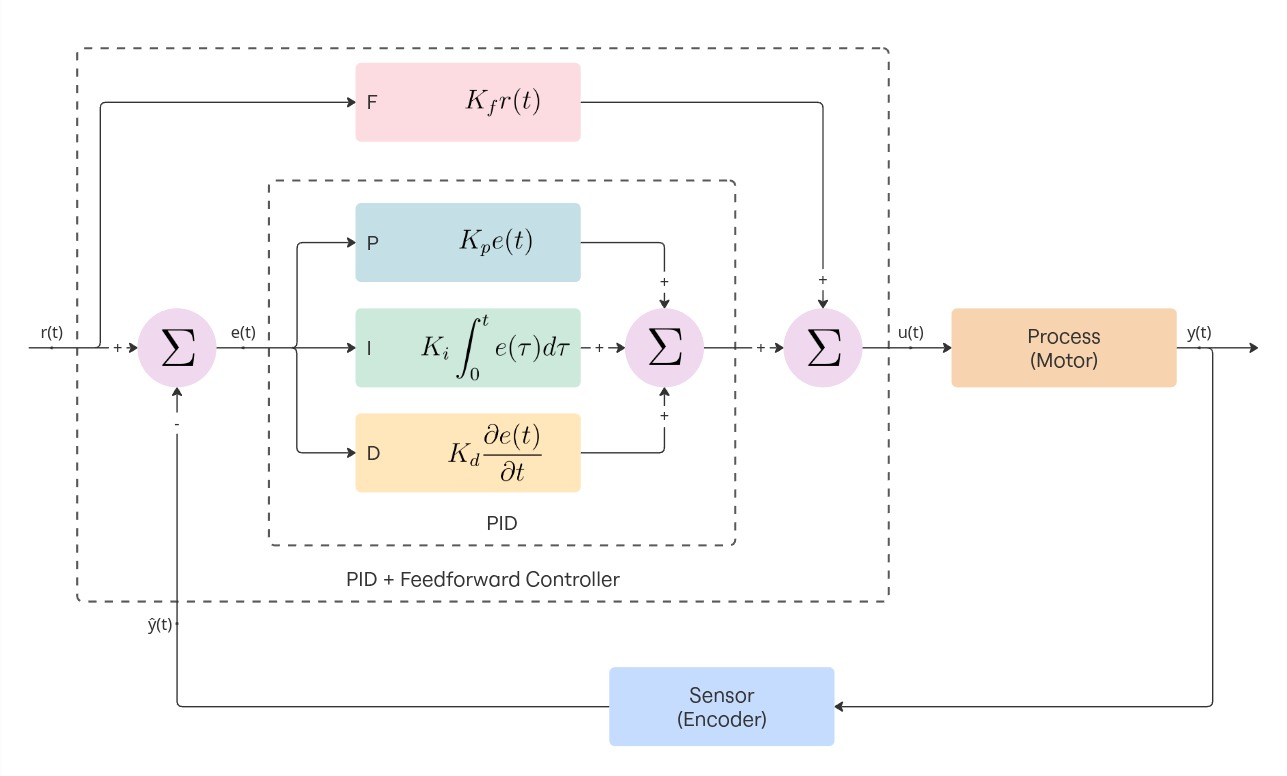
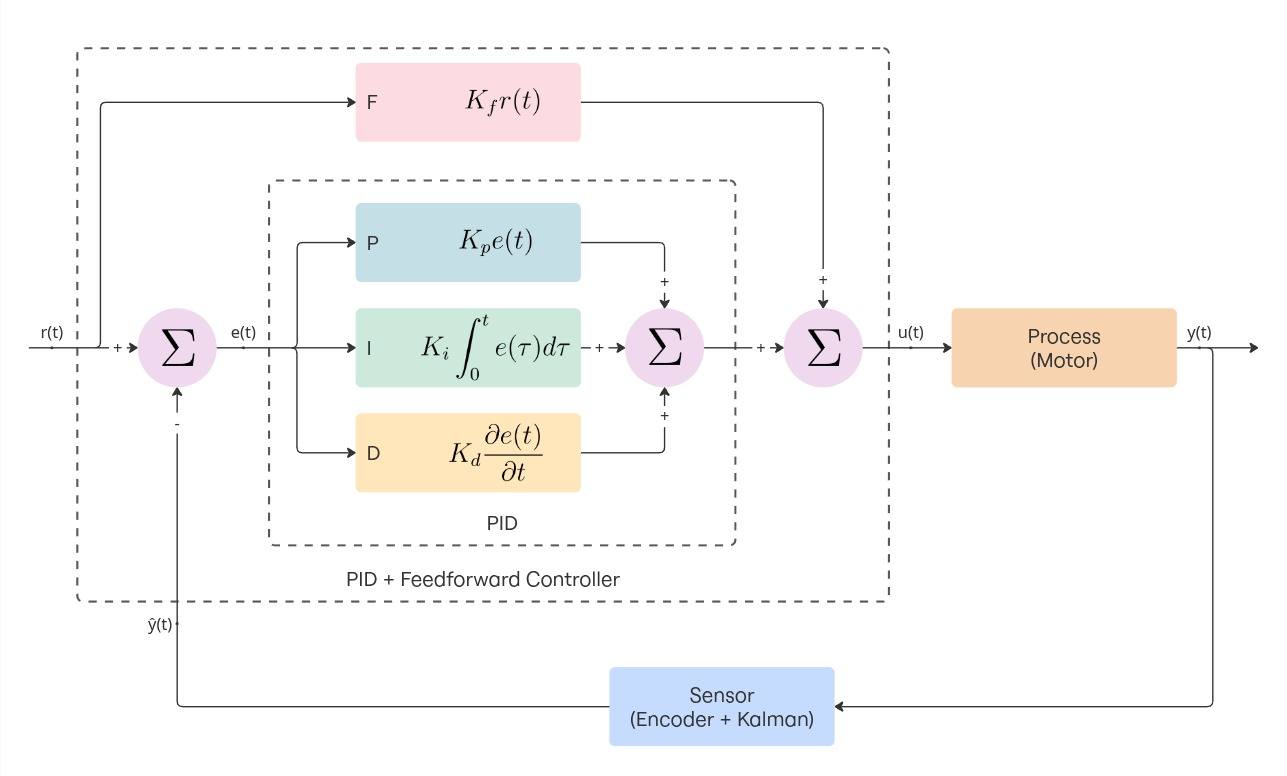
Updated software section

diff --git a/projects/differential_drive/index.html b/projects/differential_drive/index.html
@@ -165,8 +165,7 @@
             An Arduino Nano handles the low level stuff (controlling the motors, reading encoders and sensors, ...).
           </li>
           <li>
-            A Raspberry Pi Zero 2 orchestrates everything. It receives messages from other ROS nodes and commands the
-            Arduino to do something.
+            A Raspberry Pi Zero 2 receives messages from other ROS nodes and commands the Arduino to do something.
           </li>
           <li>
             The DRV8833 is an h-bridge. An h-bridge allows a DC motor to be driven in both forward and reverse
@@ -224,7 +223,7 @@
             and the outer insulation film and to replace the connector and the switch.
           </li>
           <li>
-            The battery, a 2P 500mAh Lipo. These kind of batteries are usually found in RC planes and cars.
+            The battery, a 2S 500mAh Lipo. These kind of batteries are usually found in RC planes and cars.
           </li>
         </ul>
 
@@ -420,7 +419,12 @@
           <p class="image-caption">Inner control loop</p>
         </div>
 
-        <h2 id="software">TODO [Software]</h2>
+        <h2 id="software">Software</h2>
+
+          <p>
+            The Arduino receives commands through UART from the Raspberry, parses them and controls the hardware accordingly.
+            This is the code that handles that part:
+          </p>
 
         <pre><code class="language-cpp">
 // Read linear and angular velocities from UART (format: "linear,angular\n")
@@ -434,6 +438,201 @@ if (Serial.available()) {
     }
 }
         </code></pre>
+
+        <p>
+          The rest of the firmware is structured around a few key components. All are designed to be modular and reusable:
+        </p>
+
+        <ul>
+
+          <li>
+            The <strong>encoder</strong> library provides support for different kinds of encoders:
+            high-resolution (e.g. on motor shaft, before reduction) and low-resolution (e.g. on gearbox output shaft, afer reduction).
+            I'll talk a bit more on this in the following section.
+          </li>
+
+          <li>
+            The <strong>motor</strong> library controls the DRV8833 H-bridge. It exposes methods to coast, brake, and drive the motor 
+            at a given normalized speed (float in range -1 to 1). PWM signals allow speed control.
+
+            <pre><code class="language-cpp">
+const uint8_t motorInA = 5;  // Should be PWM capable
+const uint8_t motorInB = 6;  // Should be PWM capable
+const uint8_t motorEanble = 4;
+
+Motor motor(motorInA, motorInB, motorEnable);
+motor.enable();
+motor.drive(0.8f);
+            </code></pre>
+          </li>
+
+          <li>
+            The <strong>PID</strong> library provides the implementation for a PID controller. 
+            <pre><code class="language-cpp">
+const float kp = 0.1;
+const float ki = 0.1;
+const float kd = 0.1;
+
+PID pid(kp, ki, kd);
+
+// ...
+
+while (condition) {
+
+  // Compute dt in seconds 
+  unsigned long now = millis();
+  if (now - lastTime < dtMillis) return;
+  float dt = (now - lastTime) / 1000.0f; // seconds
+  lastTime = now;
+
+  float actual = sensor.read();
+  float control = pid.update(target, actual, dt);
+  // Apply the control
+}
+            </code></pre>
+          </li>
+
+          <li>
+            The <strong>Kalman</strong> library provides the implementation for a 1D Kalman filter.
+            <pre><code class="language-cpp">
+KalmanFilter filter(0.1f, 1.0f, 25.0f);
+//                   ^      ^     ^
+//                   |      |     Initial error covariance (allow more initial uncertainty)
+//                   |      Measurement noise (fast motor = more measurement variance)
+//                   Process noise (prevent covariance collapse)
+
+// ...
+
+while (condition) {
+
+  float reading = sensor.read();
+  float filtered = filter.update(reading);
+  // ...
+}
+            </code></pre>
+          </li>
+
+          <li>
+            A <strong>DriveUnit</strong> object represents an actuated wheel. It bundles a motor, encoder, PID controller and Kalman filter.
+            During each control cycle, it:
+            <ol>
+              <li>Measures the current wheel RPM using the encoder</li>
+              <li>Filters the measurement through the 1D Kalman filter</li>
+              <li>Computes the control signal via PID regulation</li>
+              <li>Sends the resulting command to the motor driver</li>
+            </ol>
+            This allows each wheel to be independently stabilized to its desired speed.
+            <pre><code class="language-cpp">
+const uint8_t encoderInA = 2;
+const uint8_t motorInA = 5;
+const uint8_t motorInB = 6;
+const float ticksPerRev = 894.0f;  // Depends on the motor
+const float maxSpeedRPM = 60.0f;   // Depends on the motor
+
+Encoder encoder(encoderInA);
+Motor motor(motorInA, motorInB, motorEnable);
+DriveUnit driveUnit(motor, encoder, ticksPerRev, maxSpeedRPM);
+
+// Configure the driveUnit e.g. set PID gains, set Kalman gains, ...
+
+driveUnit.setTargetAngularVelocity(40);  // Or setTargetRPM
+
+// ...
+while (condition) {
+  driveUnit.update();
+}
+            </code></pre>
+          </li>
+
+        </ul>
+
+        <h3>Encoder Implementation</h3>
+
+        <p>
+        Encoder pulses can occur at high frequency, especially for high-resolution encoders mounted on the motor shaft. Polling them in the main loop would lead to missed ticks. Each encoder should be updated inside an interrupt service routine (ISR) that triggers on encoder signal rising edge.
+        </p>
+
+        <p>The standard pattern for creating and updating an encoder looks like this:</p>
+        <pre><code class="language-cpp">
+Encoder encoder(pin);
+
+void encoderISR() {
+  encoder.update();  // increase number of ticks
+}
+
+attachInterrupt(digitalPinToInterrupt(pin), encoderISR, RISING);
+        </code></pre>
+
+        <p>
+        However, this approach requires manually declaring the ISR function and attaching it to the pin every time an encoder is created. To make the encoder setup more user-friendly and reduce the amount of code one should write, I used a static interrupt pattern. This means a predefined number of encoder instances are created and each one has a dedicated static ISR that references the correct encoder object.
+        </p>
+
+        <p>
+        This is how instantiation looks with the static ISR pattern:
+        </p>
+       <pre><code class="language-cpp">
+Encoder encoder(pin);
+        </code></pre>
+
+        <p>
+        This design allows to instantiate an encoder once and forget about ISR setup (handled automatically). Interrupt management is isolated inside the Encoder class.
+        </p>
+
+        <p>
+        The trade-off is that some configuration must be hardcoded at compile time (the number of supported encoders).
+        </p>
+
+        <p>
+        The Arduino Nano only has 2 interrupt capable pins, so it was unnecessary to support more encoders via software. If you want to support more encoders, you can change this part of the code:
+        </p>
+        <pre><code class="language-cpp">
+// encoder.hpp
+static Encoder* _instances[2]; // support 2 encoders
+
+// encoder.cpp
+Encoder* Encoder::_instances[2] = {nullptr, nullptr};
+        </code></pre> 
+
+        <p>
+          Another aspect worth mentioning is the fact that each encoder has two modes: Count Mode and Period Mode.
+        </p>
+
+        <ul>
+          <li>
+            <strong>Count Mode</strong> is designed for high-resolution encoders mounted directly on the motor shaft. In this case the time between
+            two subsequent pulses is very short and we must measure the speed by counting the number of ticks over a fixed
+            time window. The RPM is computed as:
+            <pre><code class="language-cpp">
+float computeCountMode(long deltaTicks, long deltaTime, int ticksPerRev) {
+  return (60.0f * 1000000.0f * deltaTicks) / (ticksPerRev * deltaTime);
+}
+            </code></pre>
+          </li>
+          <li>
+            <strong>Period Mode</strong> is designed for low-resolution encoders, typically mounted on the gearbox ouput shaft, after the reduction.
+            In this scenario tick intervals are longer and counting over time would lead to poor precision. Instead of counting ticks 
+            we measure the time between consecutive pulses, from which the RPM is derived as: 
+            <pre><code class="language-cpp">
+float computePeriodMode(float tickIntervalMicros, int ticksPerRev) {
+  return (60.0f * 1000000.0f) / (tickIntervalMicros * ticksPerRev);
+}
+            </code></pre>
+          </li>
+        </ul>
+        </br>
+
+        <p>
+          A question might arise: why not using quadrature encoders?
+        </p>
+        <p>
+          Quadrature encoders can detect both speed and direction, but each requires two interrupt-capable pins.
+          With two encoders, this would consume four interrupts, exceeding what the Arduino Nano provides.
+          Since motor direction is already known from the control signal, single-channel encoders suffice.
+        </p>
+
+        <p>
+          You can find the complete code in this repository:
+        </p>
 
         <a class="link-banner" href="https://github.com/ggldnl/Differential-Drive-Controller" target="_blank">
           <div class="banner-content">
